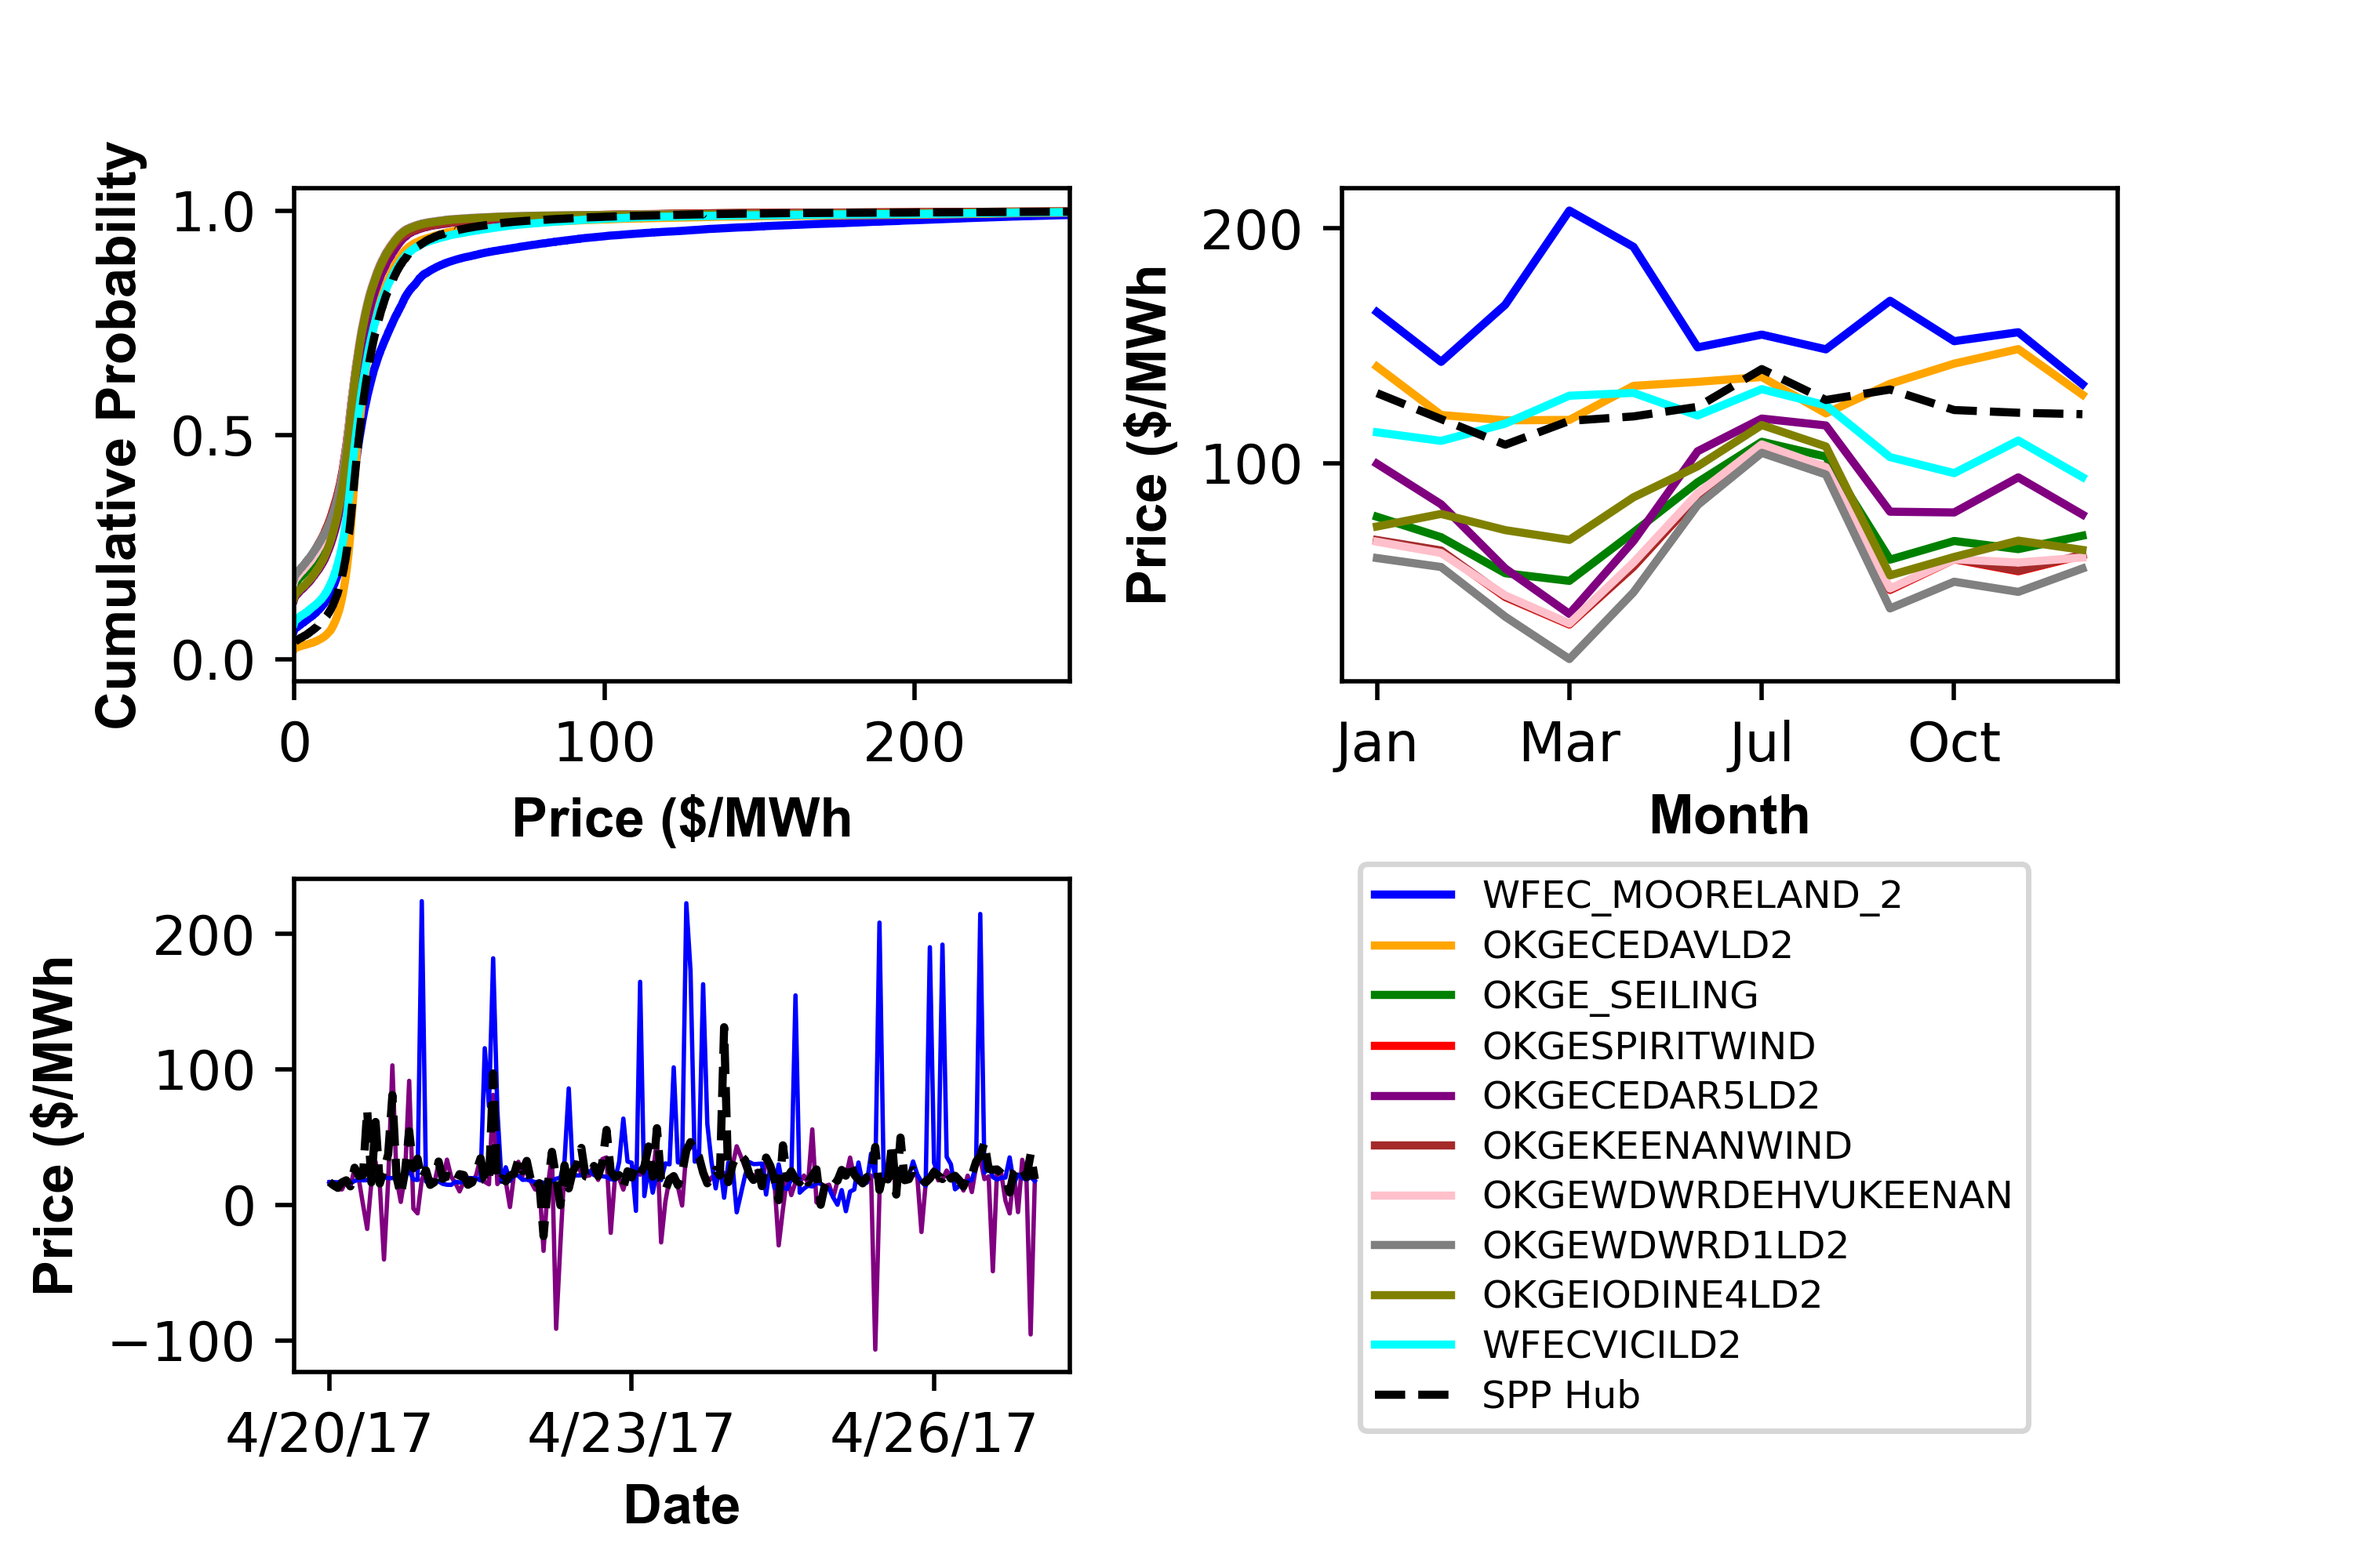
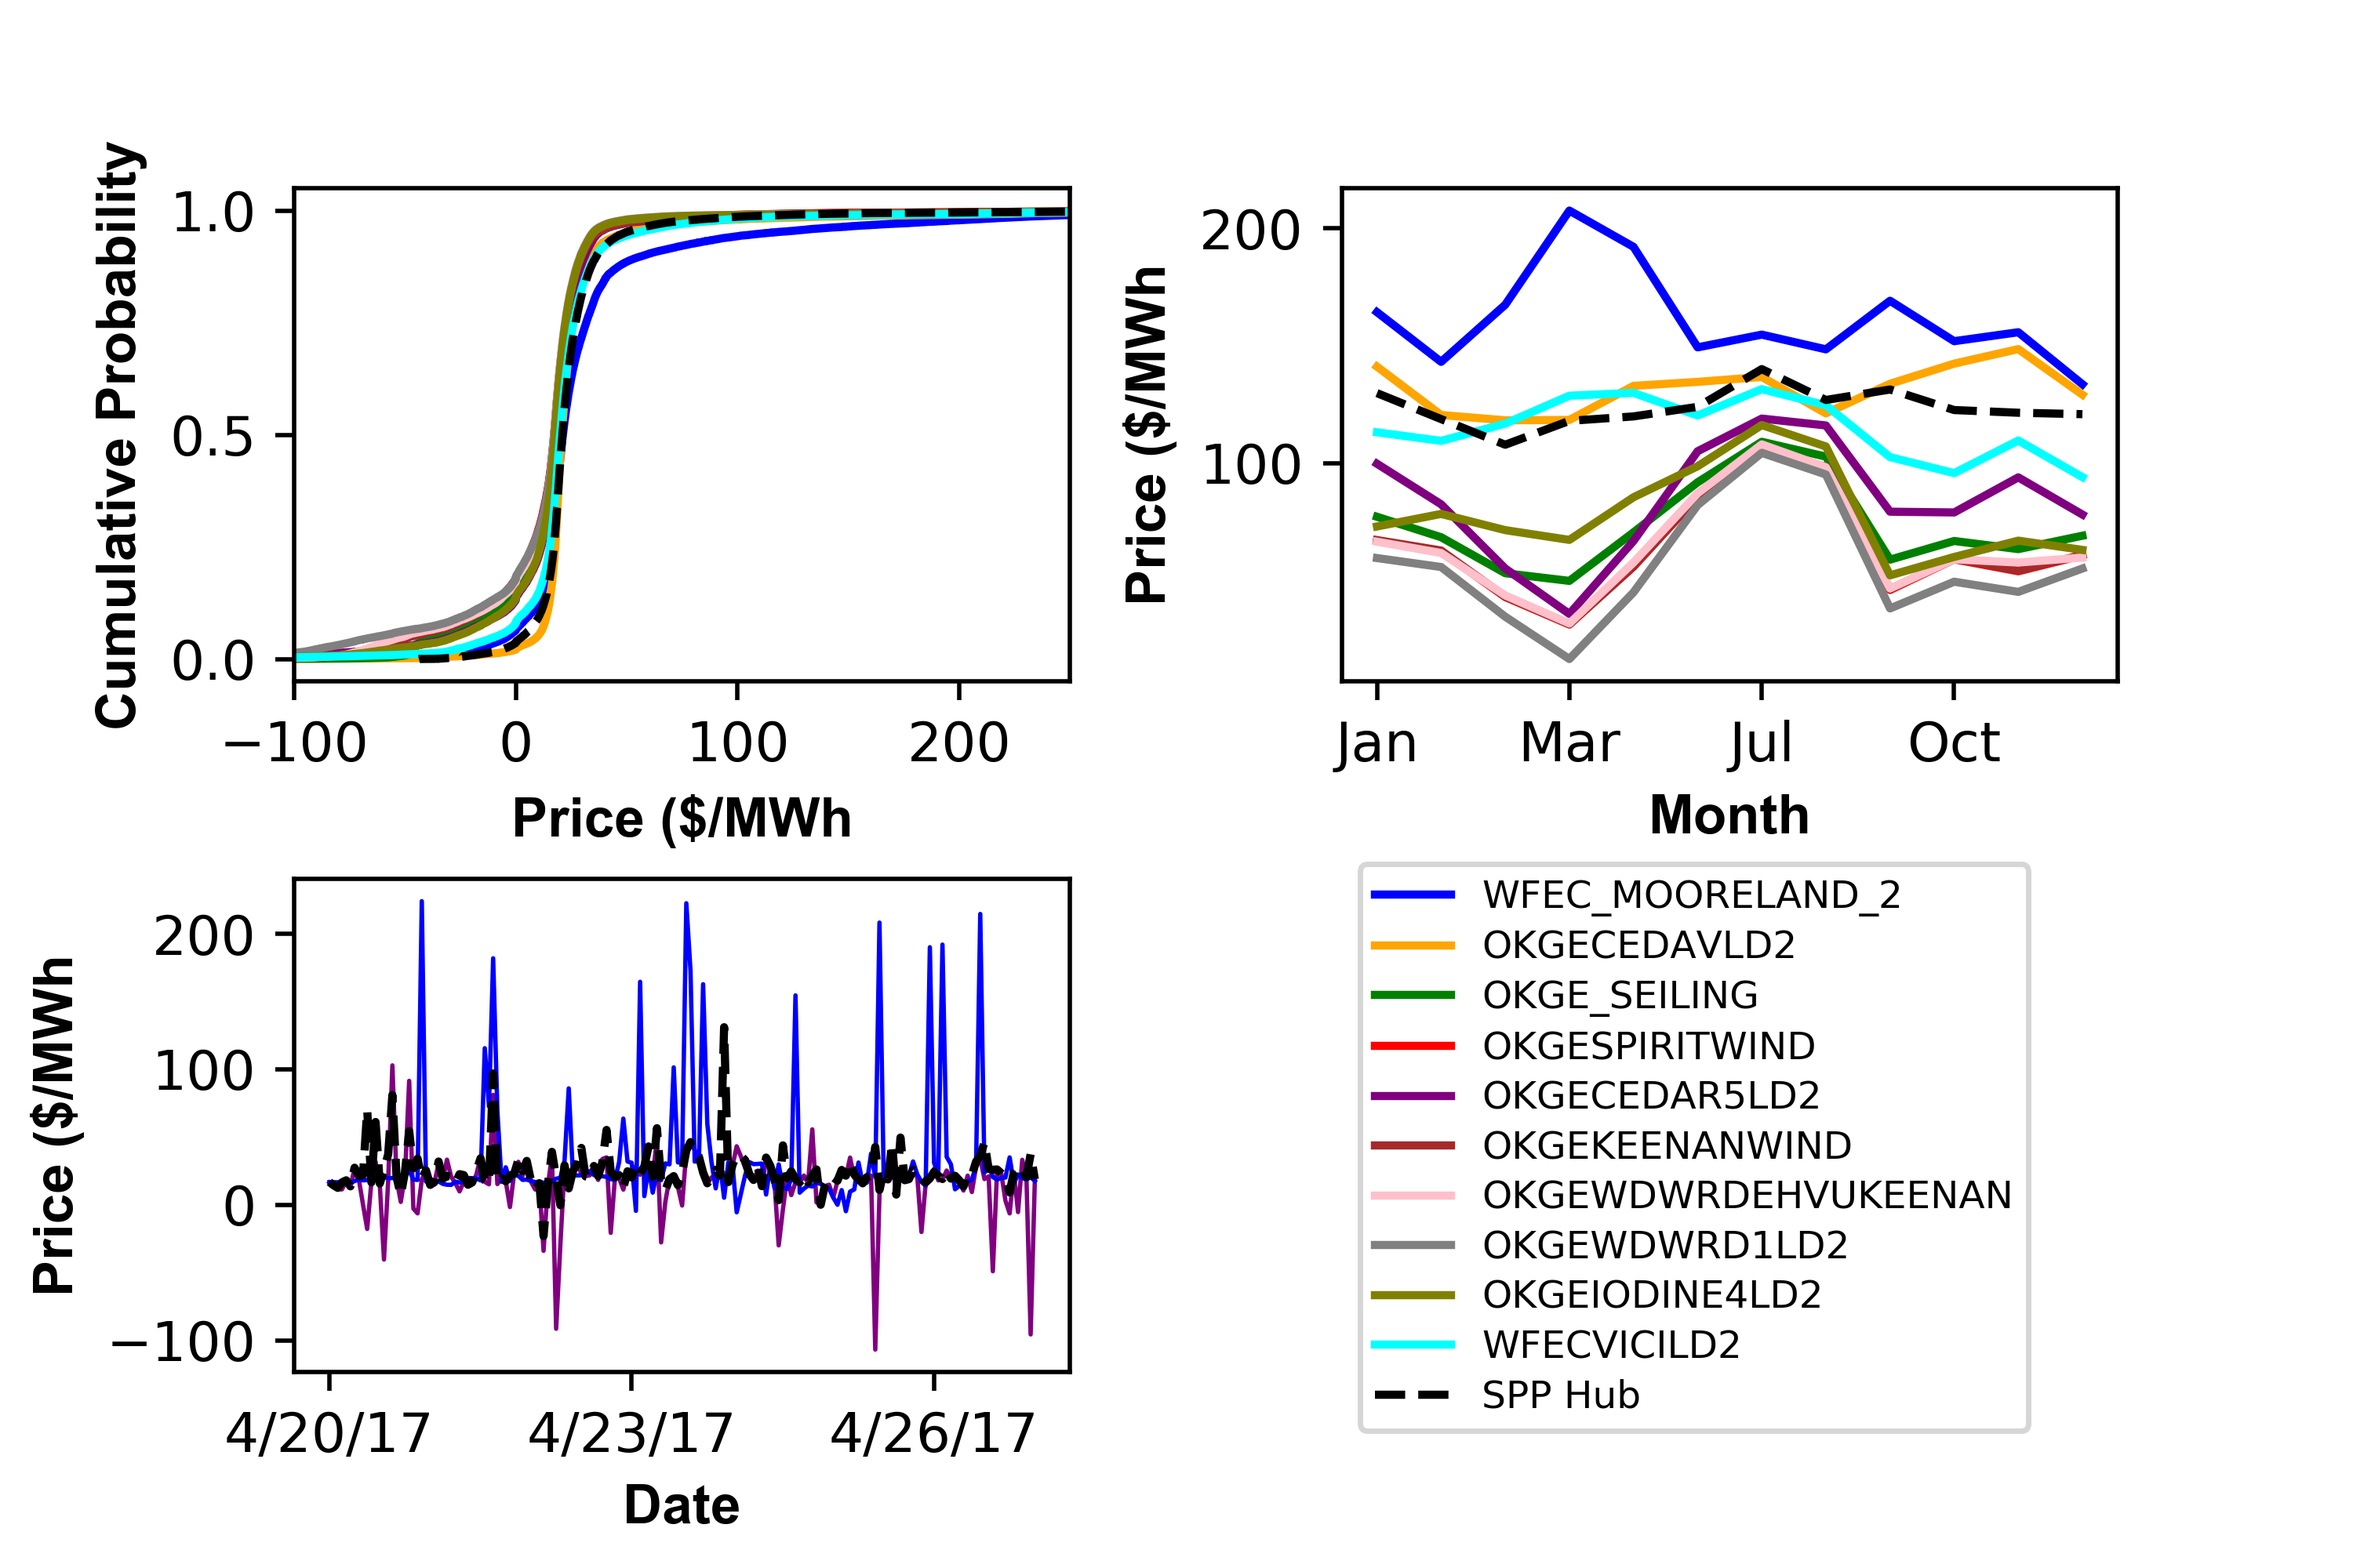
updated

diff --git a/repaperbatteries/figure4.py b/repaperbatteries/figure4.py
@@ -53,7 +53,7 @@ for node in L:
 
 ax1.set_xlabel('Price ($/MWh',fontname='Arial',fontweight='bold')
 ax1.set_ylabel('Cumulative Probability',fontname='Arial',fontweight='bold')
-ax1.set_xlim(0,250)
+ax1.set_xlim(-100,250)
     
 
 # monthly average prices
